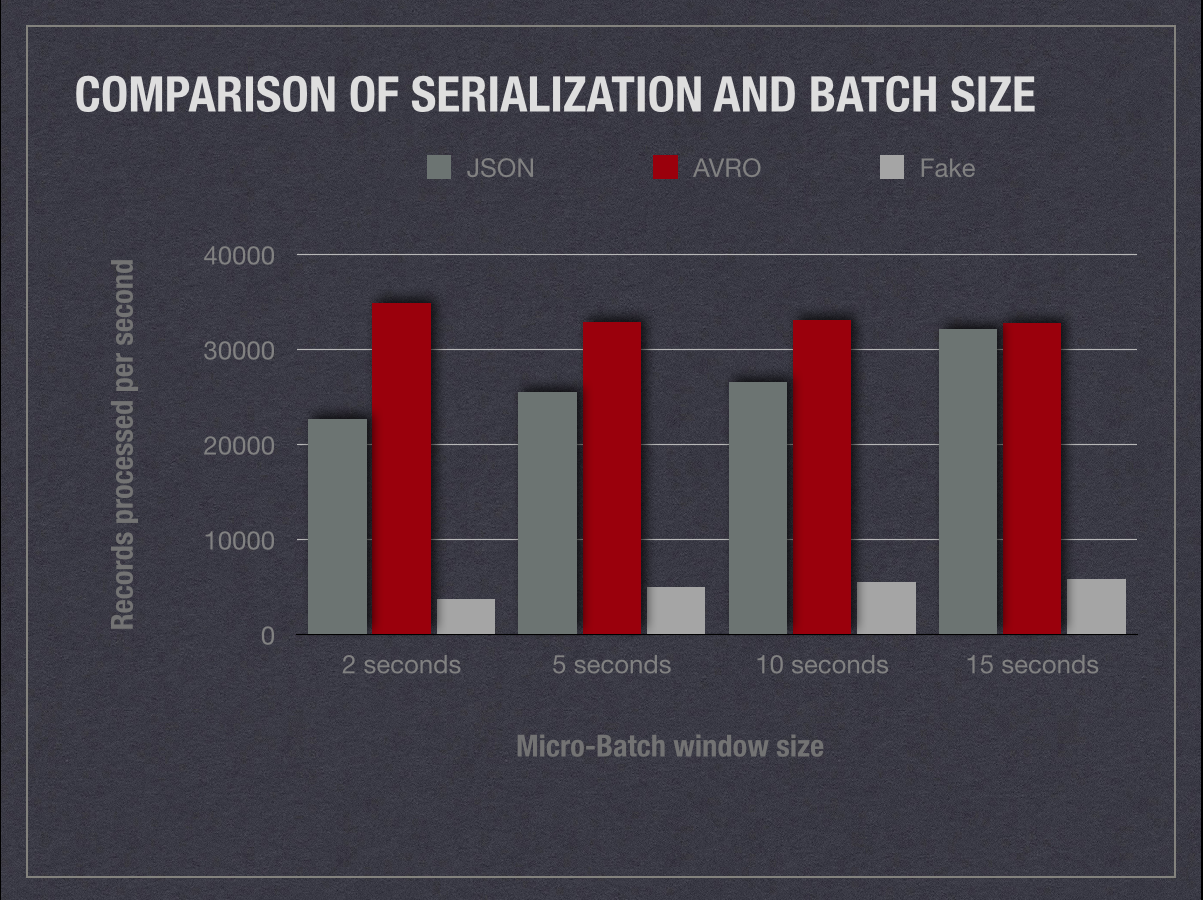
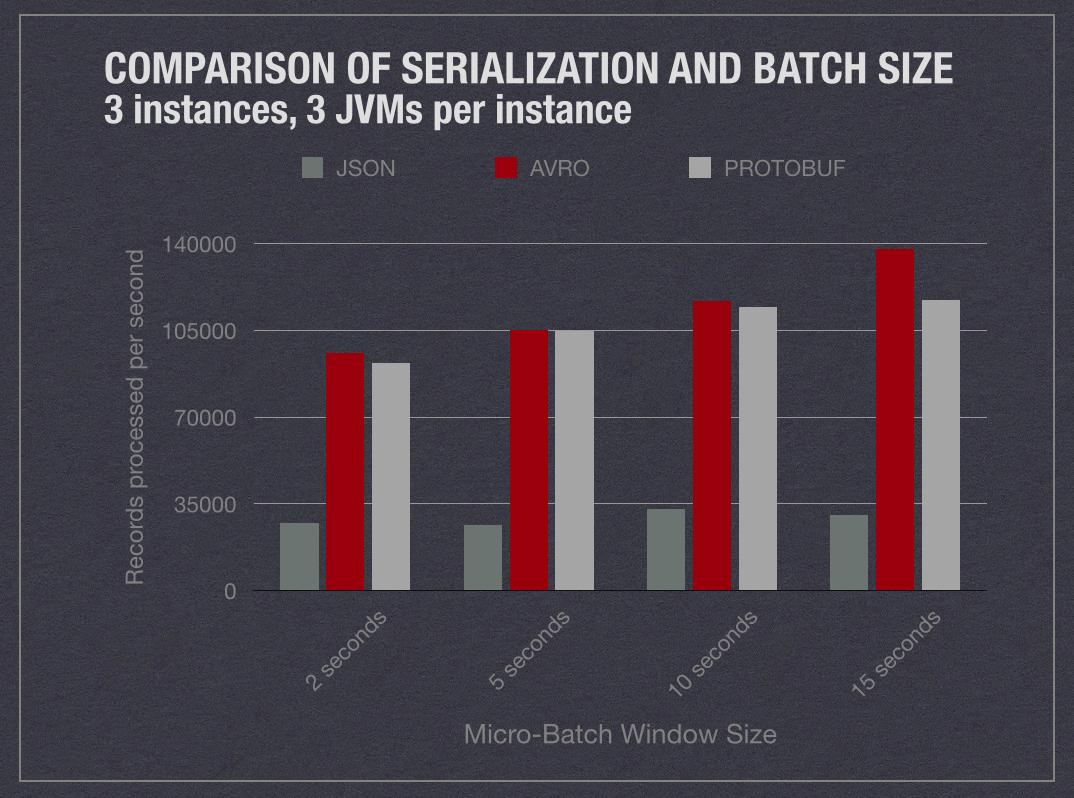
results images and descriptions for blog

diff --git a/data_display/app/templates/blog.html b/data_display/app/templates/blog.html
@@ -67,7 +67,9 @@
             <p>The "Internet of Things" (IoT) is on its way and it's going to bring a lot of data with it. By simulating a large facility with millions of sensors we can evaluate the effect of different serialization protocols on the throughput of a micro-batch streaming system.</p>
             <hr>
             <p>Serialization is important for passing data through a heterogenous environment in a language agnostic format. A serialization format can also give flexibility towards scheme changes as data needs evolve. Since there is so much data: reducing the size of that data will improve network performance, disk and memory accesses.</p>
+            <hr>
             <p>This JSON message in text form is about 265 bytes.</p>
+            <hr>
             <pre><code>
             {
               "minType":"BATHROOM",
@@ -80,7 +82,8 @@
               "ticks_since_turn_on":0
             }
             </code></pre>
-            <p>Avro schema are specified using a JSON format. Below is the schema used for encoding the JSON data shown above. Serializing it into a byte array with Avro makes it about 60 bytes.
+            <hr>
+            <p>Avro schema are specified using a JSON format. Below is the schema used for encoding the JSON data shown above. Serializing it into a byte array with Avro makes it about 58 bytes and serializing with Protocol Buffers makes it 69 bytes.</p>
             <pre><code>
             {"namespace": "com.SerIoTics.data_generation",
              "type": "record",
@@ -100,16 +103,15 @@
              ]
             }
             </code></pre>
-            Bundling the schema header along with the avro serialized byte-array results in a 540 byte message which actually increases the message size in this case.</p>
-            <!--<blockquote>
-              <p>Curabitur blandit tempus porttitor. <strong>Nullam quis risus eget urna mollis</strong> ornare vel eu leo. Nullam id dolor id nibh ultricies vehicula ut id elit.</p>
-            </blockquote>-->
+            <p>Bundling the schema header along with the avro serialized byte-array results in a 540 byte message which actually increases the message size in this case.</p>
             <h2>Evaluating Performance</h2>
-            <p>To perform an experiment I create Java objects and serialize them into JSON or Avro, then send them into a Kafka cluster. Spark Streaming consumes messages in parallel from a Kafka topic using PySpark and the messages are de-serialized into Python objects. PySpark is used to perform an aggregation process with map-reduce on the unique-id of the device which sent the message.</p>
+            <p>To perform an experiment Java objects created and serialized into JSON strings, or byte arrays in the case of Protobuf or Avro. The serialized messages are then fed into a Kafka cluster. Spark Streaming consumes messages in parallel from a Kafka topic using PySpark and the messages are de-serialized into Python objects. The schema definitions are located on both the producer and consumer sides per the needs of each protocol. PySpark is used to perform an aggregation process with map-reduce on the unique-id of the device which sent the message.</p>
+            <img src="../static/images/Producer_Serialization.png" height="505" width="650" class="img" alt="Producer Serialization">
+            <img src="../static/images/Consumer_Deserialization.png" height="505" width="650" class="img" alt="Consumer Deserialization">
             <h2>Results</h2>
             <img src="../static/images/SerializationVSBatchWindow.png" height="505" width="650" class="img" alt="Serialization vs. Batch Window Size">
             <p>
-            Avro is clearly ahead in every test. This shows that increasing the batch window size is more useful for JSON. A possible explanation is that the process of de-serialization becomes less of a factor as more messages are consumed and de-serialized in parallel.
+            The results for Protocol Buffers and Avro are very similar, which makes sense since they both reduce the size of the messages considerably. Additionally, defining the schema enables much faster marshalling and unmarshalling of the messages. The advantage is given slightly to Avro, but the real differences come down to how the protocols fit into the specific use case of a processing pipeline.
             </p>
           </div><!-- /.blog-post -->
 
